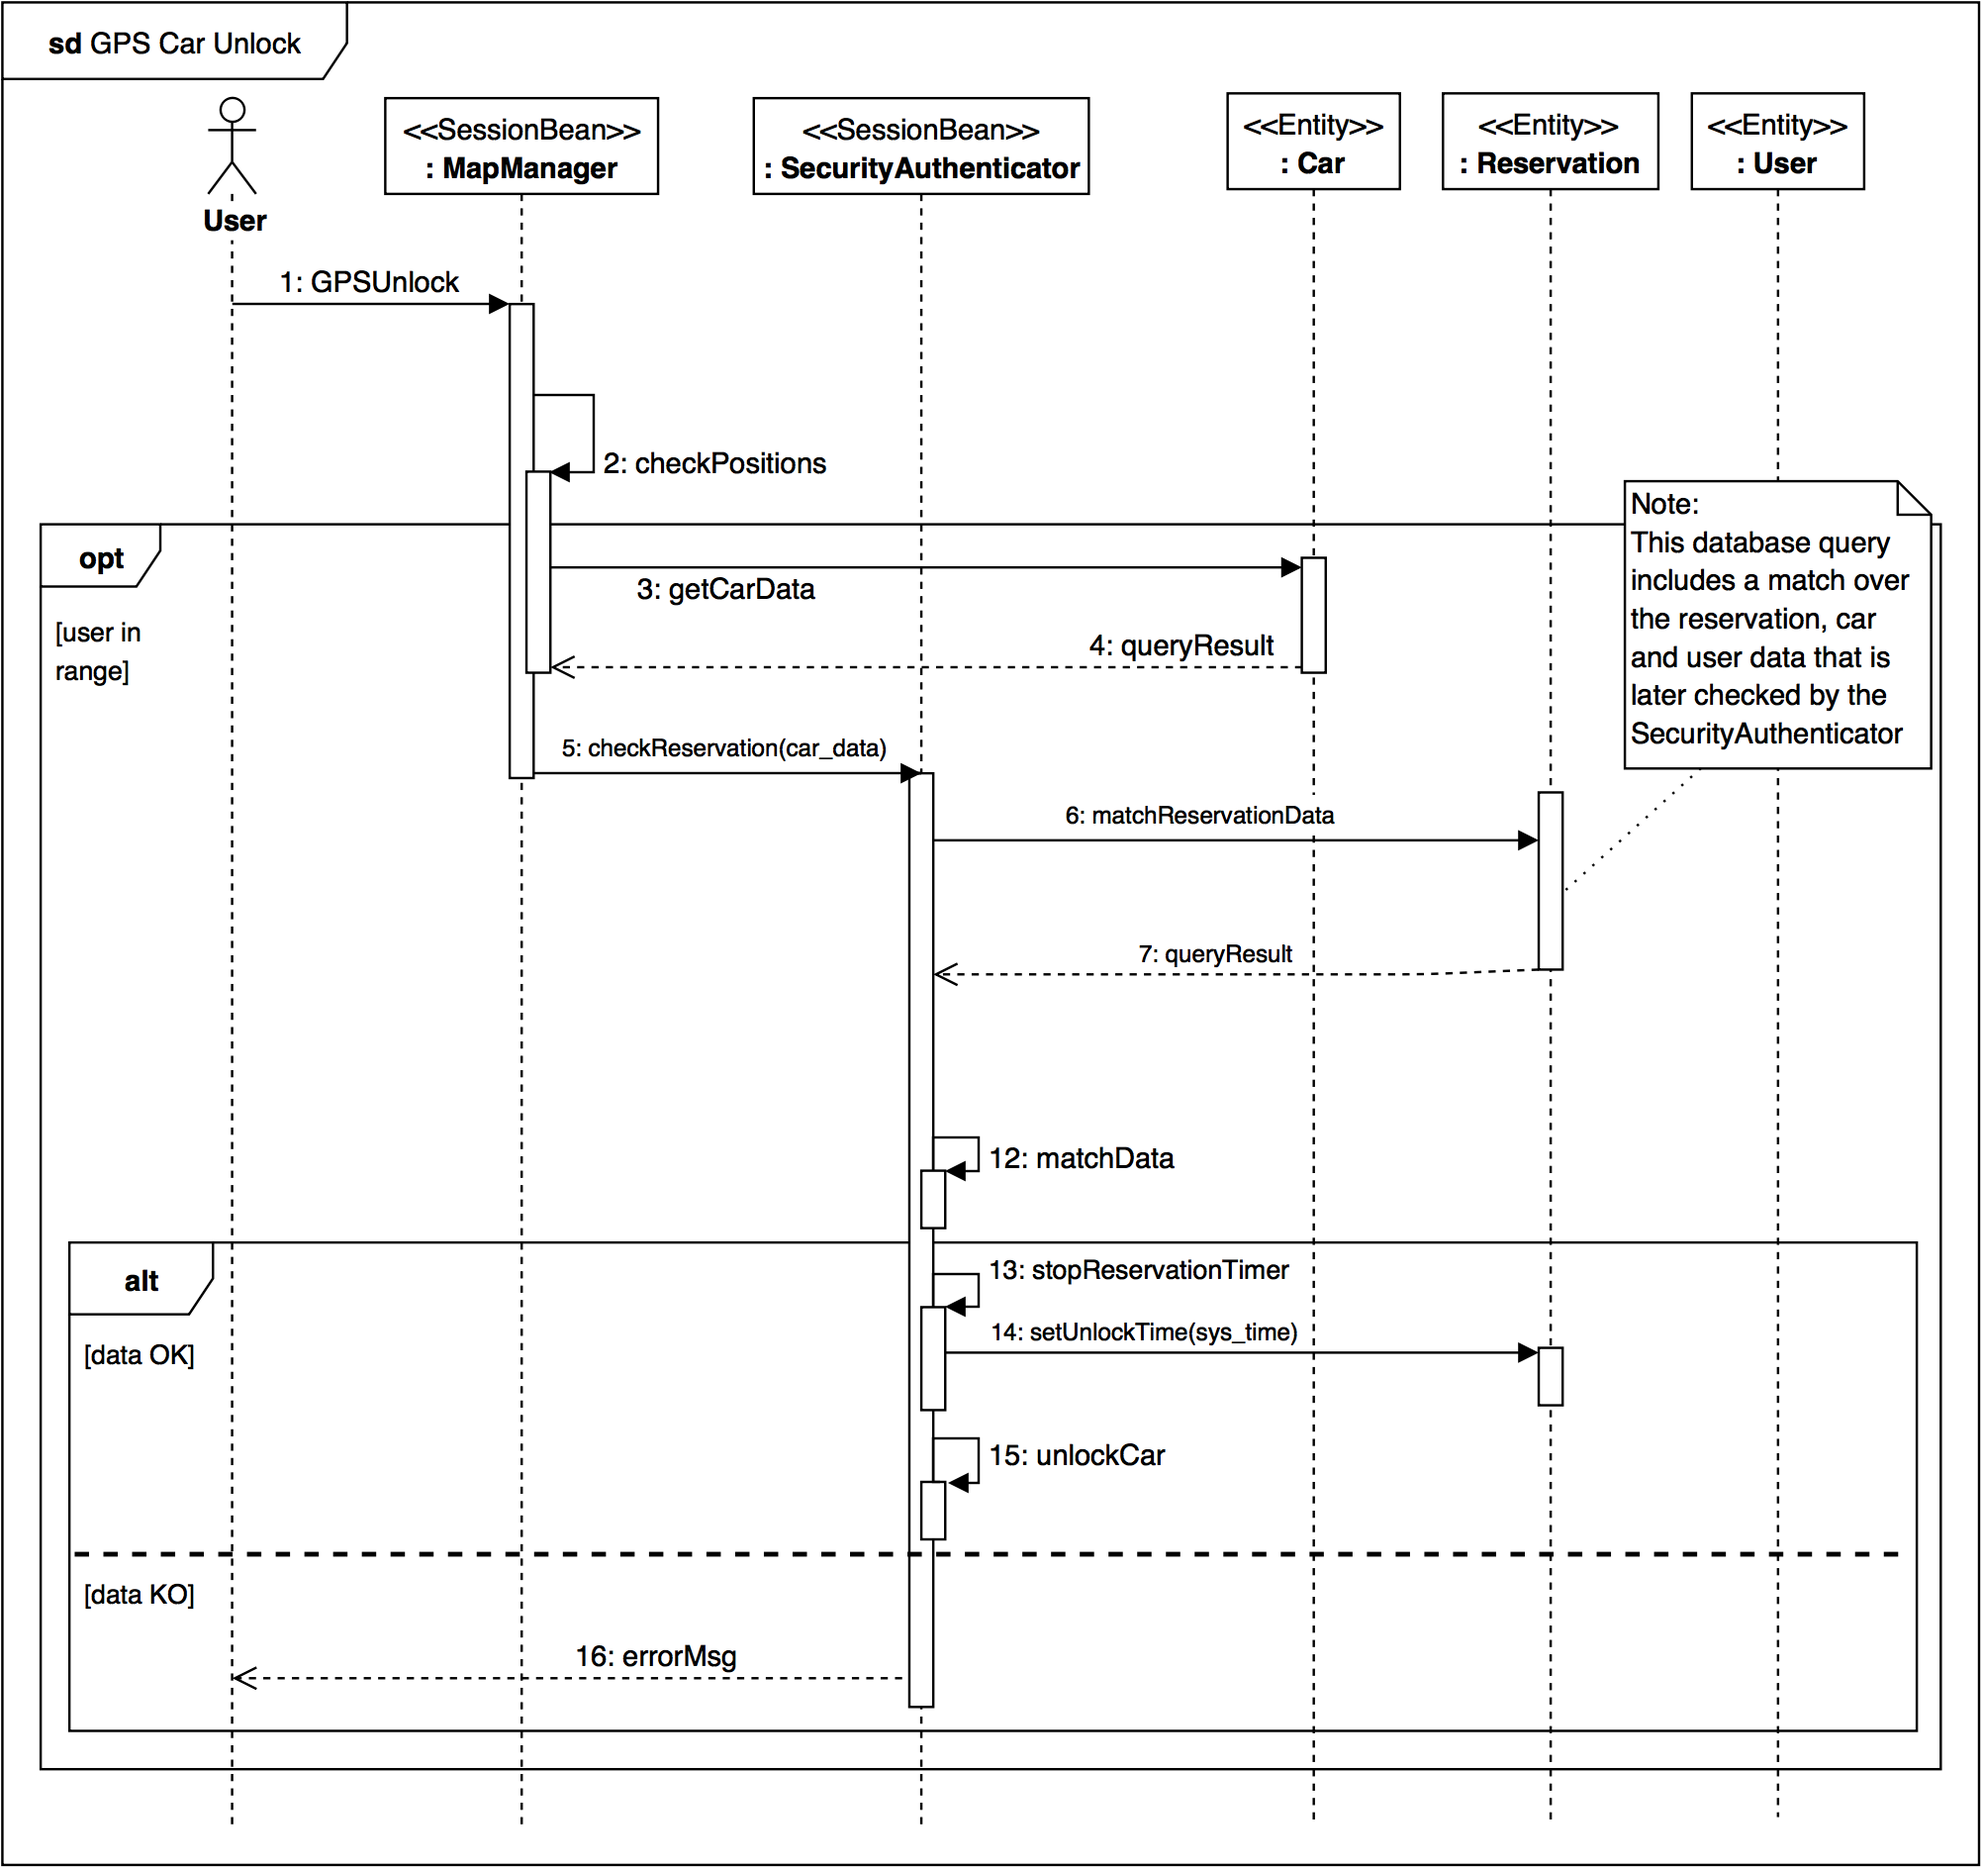
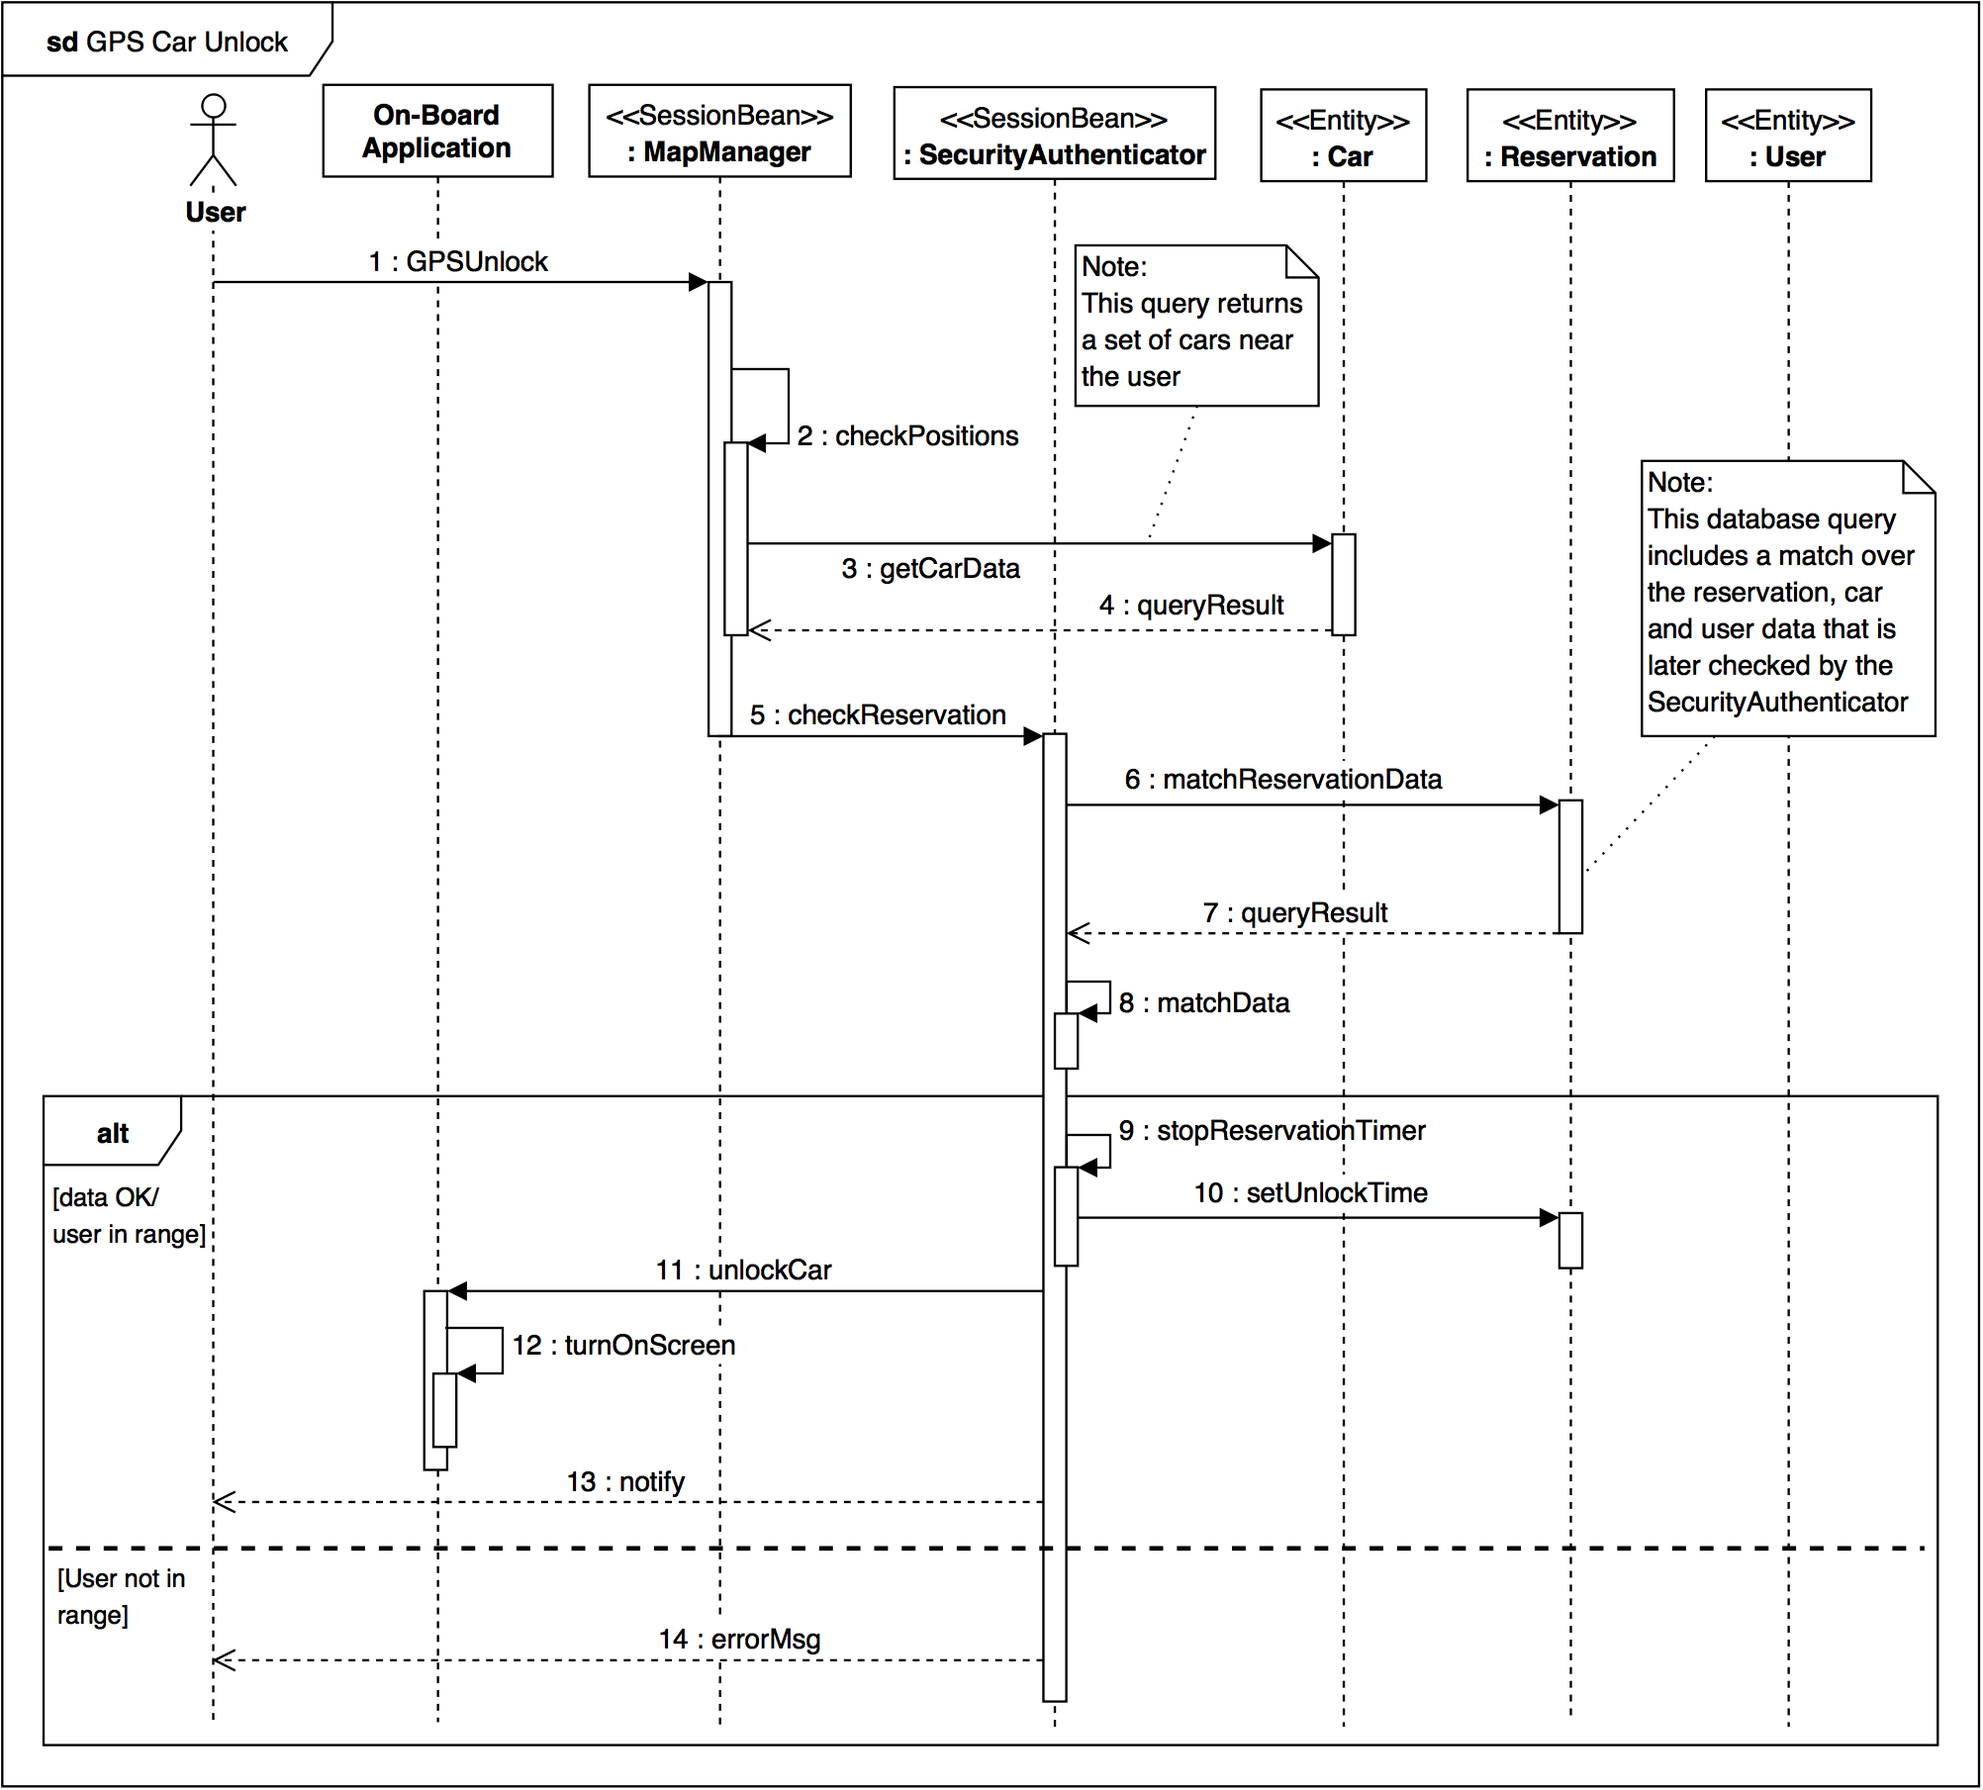
Adds a revision to gps unlock sd

diff --git a/dd/arch_design/component_interfaces.tex b/dd/arch_design/component_interfaces.tex
@@ -57,7 +57,7 @@ The following are the procedures implemented by the CarStatusManager component a
 The following are the procedures implemented by the SecurityAuthenticator component and called by other components:
 \begin{description}
 \item[\texttt{codeUnlock}] This procedure is used to unlock a car based on a vehicle-specific code found on the car itself; the procedure \textit{parameters} are a user-identifying token and a code; the \textit{return value} for the procedure is undefined, since its call is asynchronous.
-\item[\texttt{checkReservation}] This procedure is used to perform the same action as the one listed before, but in the case of a GPS unlock attempt; the needed \textit{parameters} are a user-identifying token and a list of cars detected to be near the GPS position of the identified user; the \textit{return value} is an error in case there is no matching triplet car-user-reservation based on the given data, otherwise it is undefined.
+\item[\texttt{checkReservation}] This procedure is used to perform the same action as the one listed before, but in the case of a GPS unlock attempt; the needed \textit{parameters} are a user-identifying token and a list of cars detected to be near the GPS position of the identified user; the \textit{return value} is an error in case there is no matching triplet car-user-reservation based on the given data, otherwise it is a confirmation message.
 \item[\texttt{sendToCheck}] This procedure processes an authentication PIN inserted by a user on the on-board application of a car to find out if the ride is being initiated by the user who reserved and unlocked that car; this takes as \textit{parameters} a car and a PIN; the \textit{return value} is the result of the check.
 \end{description}
 \subsubsection{DiscountProvider}
